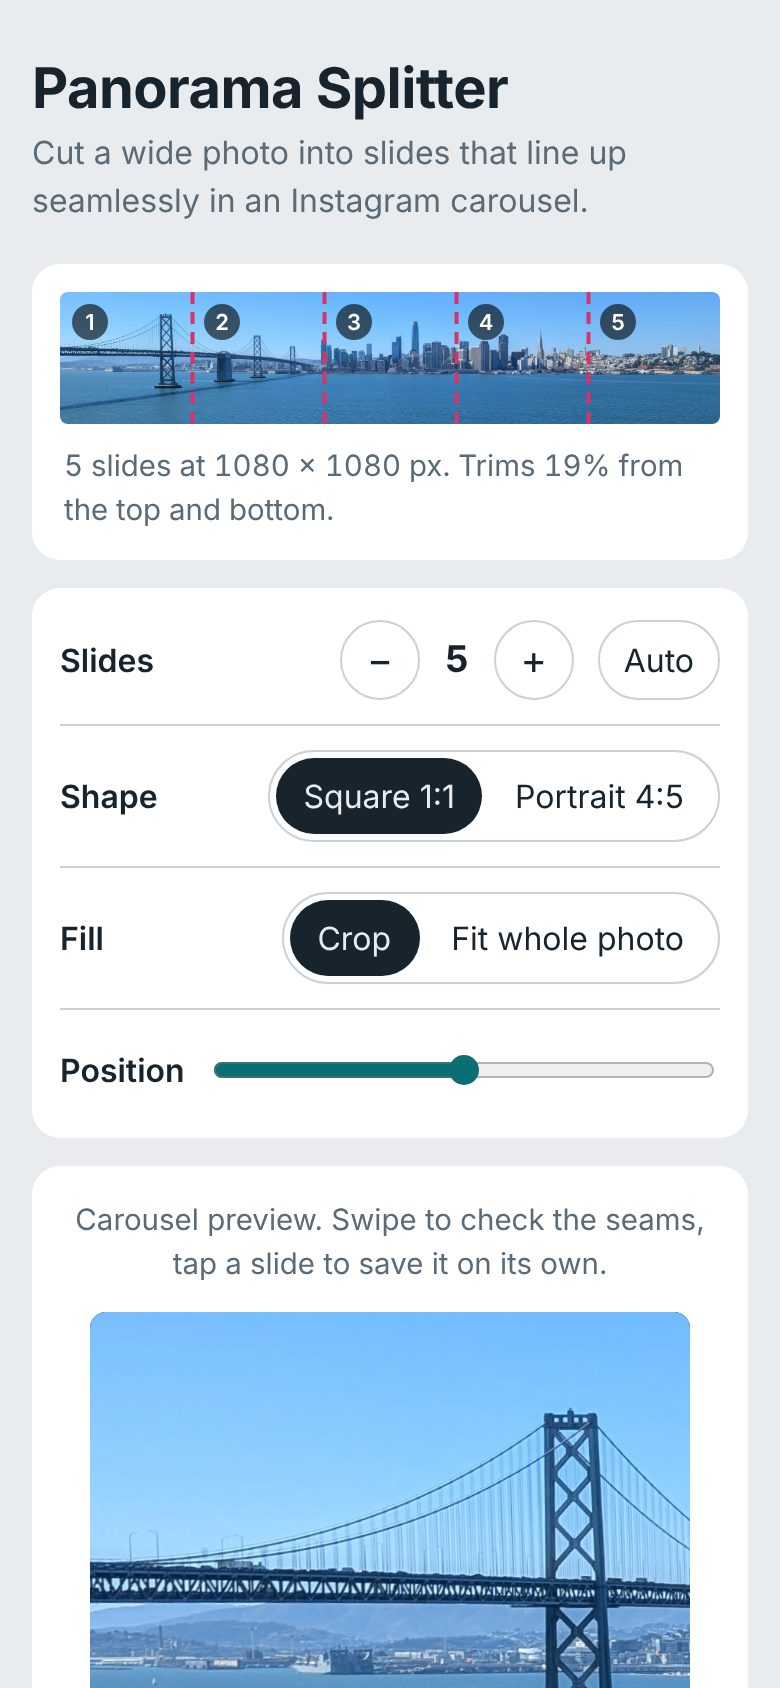
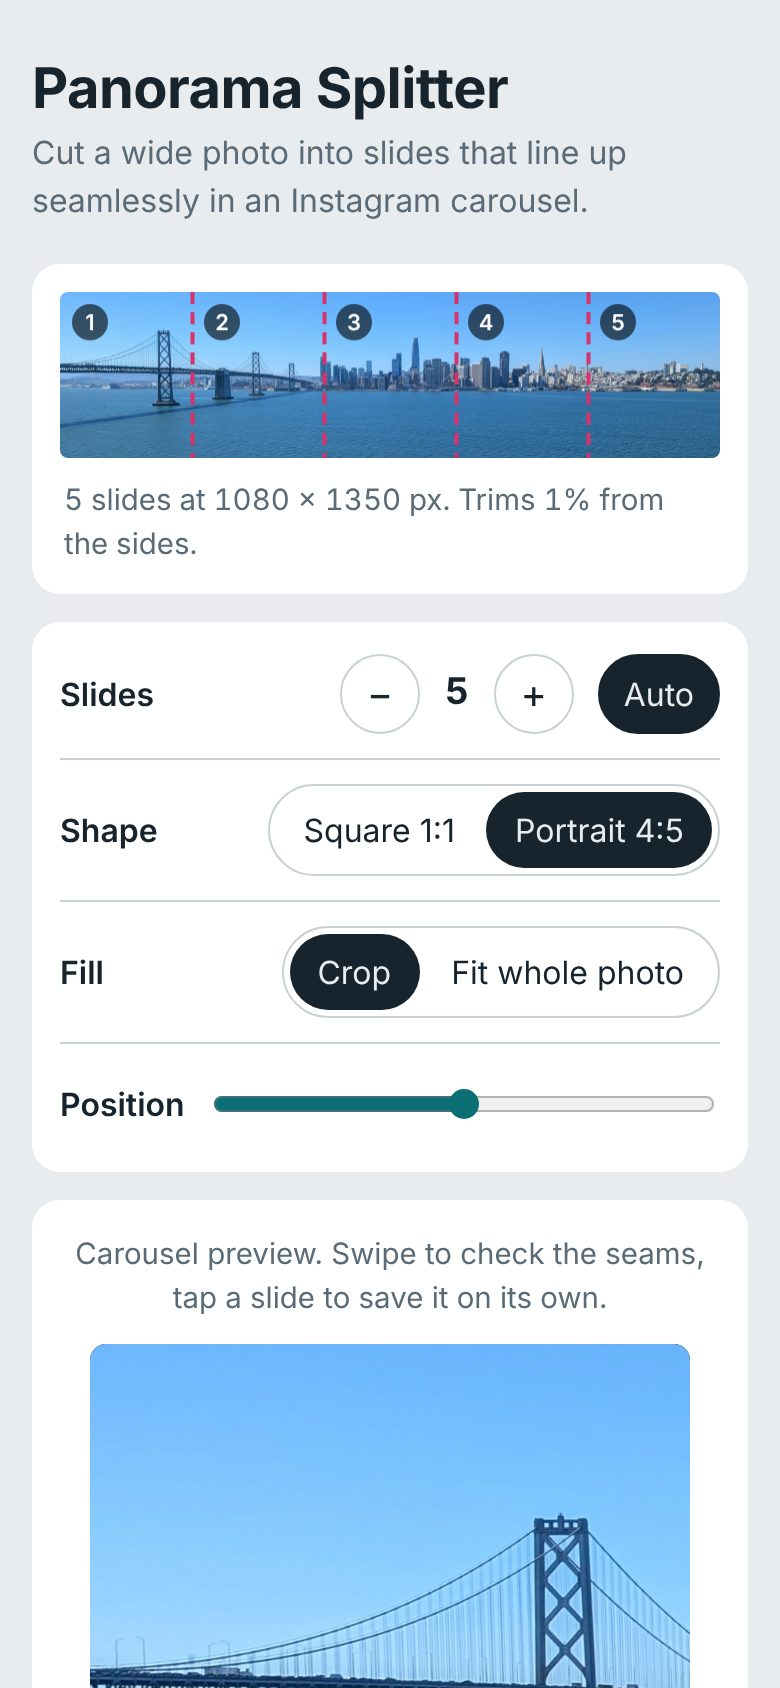
Panorama Splitter screenshot: 5 portrait 4:5 slides
Claude-Session: https://claude.ai/code/session_01S85J16qWag3ZBrDP9TZQhT

diff --git a/index.html b/index.html
@@ -148,7 +148,7 @@ footer{margin-top:32px;color:var(--muted);font-size:.9rem}
       <a href="https://github.com/hodzic/photo-splitter">Source</a>
     </div>
     </div>
-    <a class="shot" href="/photo-splitter/"><img src="shots/photo-splitter.jpg" width="390" height="844" alt="A San Francisco skyline panorama with the Bay Bridge, cut into five square slides, with the controls" loading="lazy"></a>
+    <a class="shot" href="/photo-splitter/"><img src="shots/photo-splitter.jpg" width="390" height="844" alt="A San Francisco skyline panorama with the Bay Bridge, cut into five portrait 4:5 slides, with the controls" loading="lazy"></a>
   </section>
 
   <footer>Edin Hodzic · <a href="https://github.com/hodzic">GitHub</a></footer>
